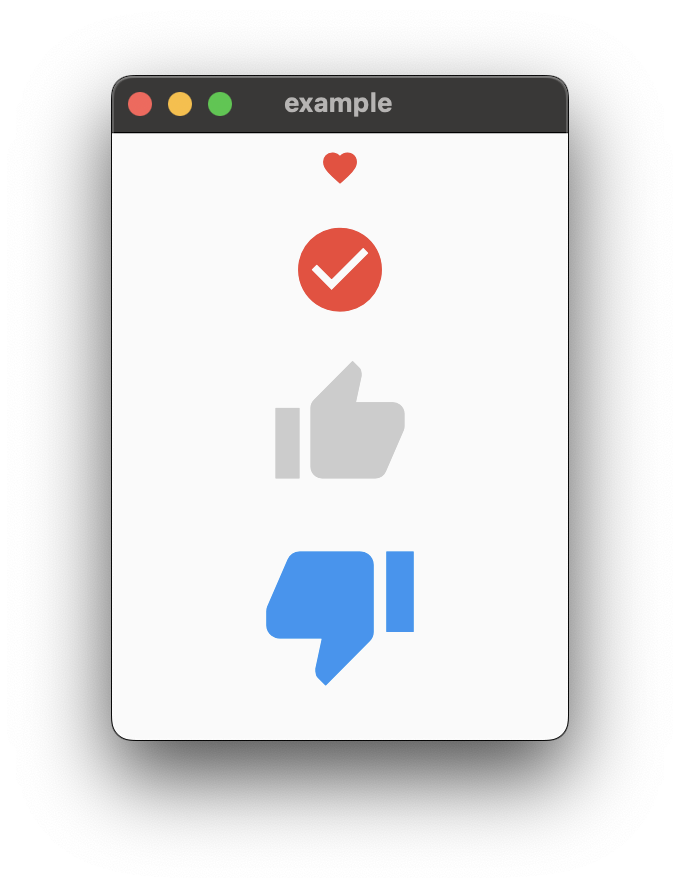
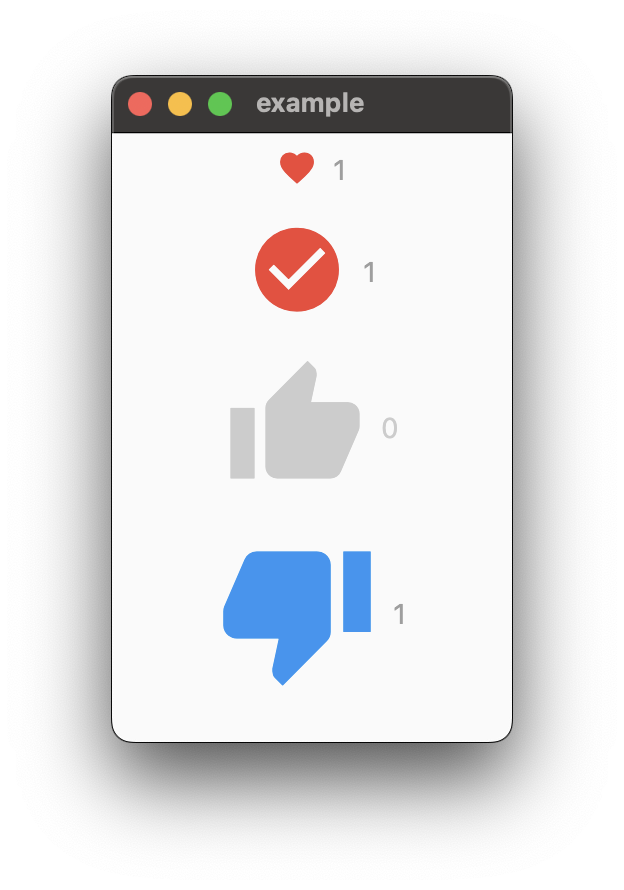
`v1.0.1` Update

diff --git a/lib/selectable_icon.dart b/lib/selectable_icon.dart
@@ -19,9 +19,17 @@ class SelectableIcon extends StatelessWidget {
   /// Icon to be displayed when the [SelectableIcon] widget is not selected.
   final unSelectedIcon;
 
+  /// Color of the icon when the [SelectableIcon] widget is selected.
   final Color selectedColor;
 
+  /// Color of the icon when the [SelectableIcon] widget is not selected.
   final Color unSelectedColor;
+
+  /// Style of the text.
+  final TextStyle style;
+
+  /// Padding of the text.
+  final EdgeInsetsGeometry countPadding;
 
   /// Count of the [SelectableIcon] widget.
   final int count;
@@ -42,6 +50,11 @@ class SelectableIcon extends StatelessWidget {
     this.selectedColor = Colors.red,
     this.unSelectedIcon = Icons.favorite,
     this.unSelectedColor = Colors.grey,
+    this.style = const TextStyle(
+      fontSize: 14,
+      color: Colors.grey,
+    ),
+    this.countPadding = const EdgeInsets.only(left: 8),
     required this.onTap,
     required this.isSelected,
   }) : super(key: key);
@@ -57,15 +70,39 @@ class SelectableIcon extends StatelessWidget {
           child: Padding(
             padding: padding,
             child: isSelected
-                ? Icon(
-                    selectedIcon,
-                    size: size,
-                    color: selectedColor,
+                ? Row(
+                    mainAxisAlignment: MainAxisAlignment.center,
+                    children: [
+                      Icon(
+                        selectedIcon,
+                        size: size,
+                        color: selectedColor,
+                      ),
+                      Padding(
+                        padding: countPadding,
+                        child: Text(
+                          count.toString(),
+                          style: style,
+                        ),
+                      ),
+                    ],
                   )
-                : Icon(
-                    unSelectedIcon,
-                    size: size,
-                    color: unSelectedColor,
+                : Row(
+                    mainAxisAlignment: MainAxisAlignment.center,
+                    children: [
+                      Icon(
+                        unSelectedIcon,
+                        size: size,
+                        color: unSelectedColor,
+                      ),
+                      Padding(
+                        padding: countPadding,
+                        child: Text(
+                          count.toString(),
+                          style: style,
+                        ),
+                      ),
+                    ],
                   ),
           ),
         ),

diff --git a/example/lib/main.dart b/example/lib/main.dart
@@ -25,10 +25,17 @@ class MyHomePage extends StatefulWidget {
 }
 
 class _MyHomePageState extends State<MyHomePage> {
-  bool isSelected = true;
-  bool isSelected2 = true;
-  bool isSelected3 = true;
-  bool isSelected4 = true;
+  bool isSelected = false;
+  int count = 0;
+
+  bool isSelected2 = false;
+  int count2 = 0;
+
+  bool isSelected3 = false;
+  int count3 = 0;
+
+  bool isSelected4 = false;
+  int count4 = 0;
 
   @override
   Widget build(BuildContext context) {
@@ -37,18 +44,30 @@ class _MyHomePageState extends State<MyHomePage> {
         children: [
           Center(
             child: SelectableIcon(
+              count: count,
               onTap: () {
                 setState(() {
                   isSelected = !isSelected;
+                  if (isSelected) {
+                    count++;
+                  } else {
+                    count--;
+                  }
                 });
               },
               isSelected: isSelected,
             ),
           ),
           SelectableIcon(
+            count: count2,
             onTap: () {
               setState(() {
                 isSelected2 = !isSelected2;
+                if (isSelected2) {
+                  count2++;
+                } else {
+                  count2--;
+                }
               });
             },
             isSelected: isSelected2,
@@ -57,9 +76,15 @@ class _MyHomePageState extends State<MyHomePage> {
             size: 50,
           ),
           SelectableIcon(
+            count: count3,
             onTap: () {
               setState(() {
                 isSelected3 = !isSelected3;
+                if (isSelected3) {
+                  count3++;
+                } else {
+                  count3--;
+                }
               });
             },
             isSelected: isSelected3,
@@ -68,14 +93,19 @@ class _MyHomePageState extends State<MyHomePage> {
             size: 70,
             selectedColor: Colors.blue,
             unSelectedColor: Colors.grey,
-            count: 10,
             animationDuration: const Duration(milliseconds: 500),
             padding: const EdgeInsets.all(10),
           ),
           SelectableIcon(
+            count: count4,
             onTap: () {
               setState(() {
                 isSelected4 = !isSelected4;
+                if (isSelected4) {
+                  count4++;
+                } else {
+                  count4--;
+                }
               });
             },
             isSelected: isSelected4,

diff --git a/README.md b/README.md
@@ -10,11 +10,11 @@ Convert any widget into a selectable box.
 
 ## Installation
 
-Add `selectable_icon: ^1.0.0` in your project's pubspec.yaml:
+Add `selectable_icon: ^1.0.1` in your project's pubspec.yaml:
 
 ```yaml
 dependencies:
-  selectable_icon: ^1.0.0
+  selectable_icon: ^1.0.1
 ```
 
 ## Usage
@@ -29,11 +29,17 @@ Then use `SelectableIcon` in your widget tree:
 
 ```dart
 bool isSelected = false;
+int count = 0;
 
 SelectableIcon(
   onTap: () {
     setState(() {
       isSelected = !isSelected;
+      if (isSelected) {
+        count++;
+      } else {
+        count--;
+      }
     });
   },
   isSelected: isSelected,
@@ -42,7 +48,7 @@ SelectableIcon(
   size: 70,
   selectedColor: Colors.blue,
   unSelectedColor: Colors.grey,
-  count: 10,
+  count: count,
   animationDuration: const Duration(milliseconds: 500),
   padding: const EdgeInsets.all(10),
 ),

diff --git a/CHANGELOG.md b/CHANGELOG.md
@@ -1,3 +1,7 @@
+## 1.0.1
+
+- Count Functionality Added.
+
 ## 1.0.0
 
 - Initial Release.
